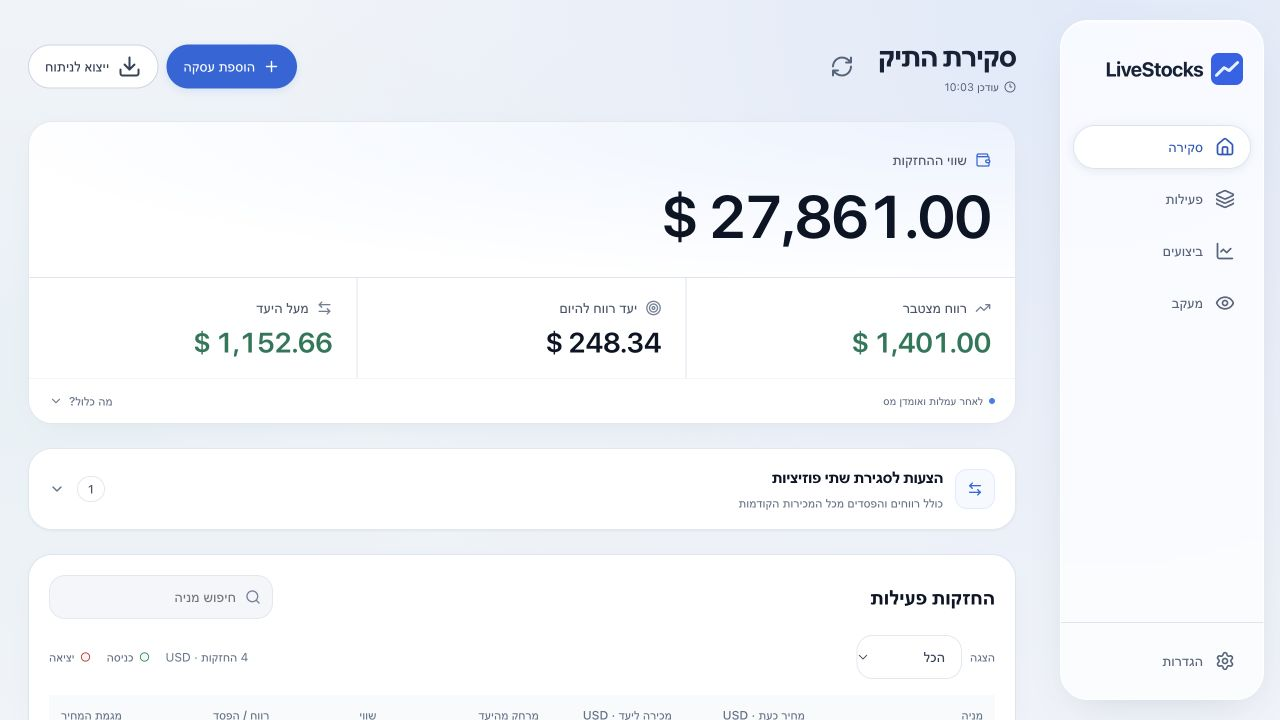
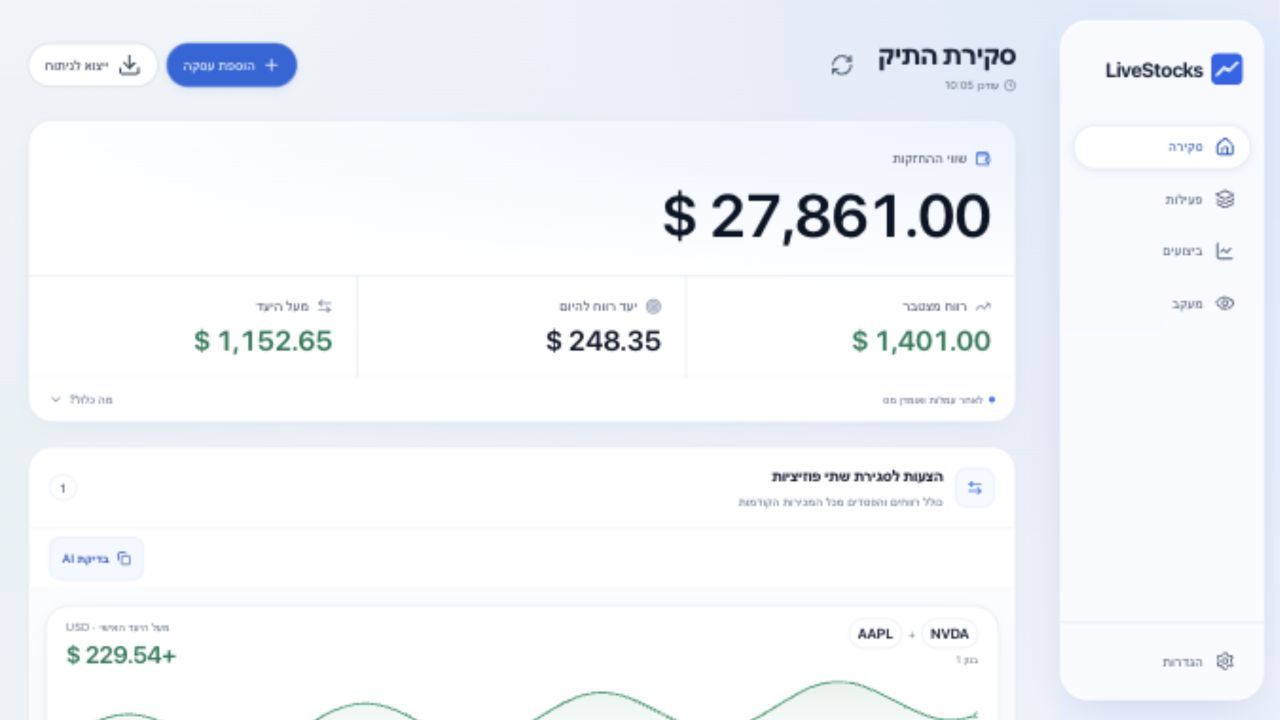
fix(overview): keep exit ideas permanently visible

diff --git a/__tests__/close-pair-proposals-ui.test.tsx b/__tests__/close-pair-proposals-ui.test.tsx
@@ -16,24 +16,19 @@ const metric = (symbol: string, price: number) => calculatePositionMetrics({
 
 describe('close pair disclosure', () => {
   beforeEach(() => { context.settings.annualGrowthRate = 0; });
-  it('keeps the entire ideas area collapsed with an accessible count until requested', async () => {
+  it('always shows the ideas and count without a collapsible section', () => {
     context.locale = 'en';
-    const user = userEvent.setup();
-    const { container } = render(<ClosePairProposals metrics={[metric('WIN', 130), metric('LOSS', 80)]} />);
-    const disclosure = container.querySelector('details.glass-disclosure')!;
-    expect(disclosure).not.toHaveAttribute('open');
+    render(<ClosePairProposals metrics={[metric('WIN', 130), metric('LOSS', 80)]} />);
+    expect(screen.getByRole('heading', { name: 'Two-position exit ideas' }).closest('details')).toBeNull();
     expect(screen.getByLabelText('Idea count')).toHaveTextContent('1');
-    expect(screen.getByRole('button', {name: 'Copy prompt for AI review'})).not.toBeVisible();
-    await user.click(screen.getByText('Two-position exit ideas'));
-    expect(disclosure).toHaveAttribute('open');
     expect(screen.getByRole('button', {name: 'Copy prompt for AI review'})).toBeVisible();
+    expect(screen.getByTestId('close-pair-preview')).toBeVisible();
   });
 
-  it('starts collapsed, opens with the keyboard and hides links when collapsed', async () => {
+  it('keeps individual pair details collapsed, opens with the keyboard and hides links when collapsed', async () => {
     context.locale = 'en';
     const user = userEvent.setup();
     render(<ClosePairProposals metrics={[metric('WIN', 130), metric('LOSS', 80)]} />);
-    await user.click(screen.getByText(context.locale === 'he' ? 'הצעות לסגירת שתי פוזיציות' : 'Two-position exit ideas'));
     const toggle = screen.getByRole('button', { name: /Expand WIN \+ LOSS details/ });
     expect(toggle).toHaveAttribute('aria-expanded', 'false');
     expect(screen.queryByRole('link')).not.toBeInTheDocument();
@@ -80,7 +75,6 @@ describe('close pair disclosure', () => {
     ] };
     const win = metric('WIN', 140);
     render(<ClosePairProposals metrics={[win, calculatePositionMetrics({ ...loss, lots: loss.lots!.slice(-1) }, 90, 3.5)]} positions={[win.position, loss]} />);
-    await user.click(screen.getByText(context.locale === 'he' ? 'הצעות לסגירת שתי פוזיציות' : 'Two-position exit ideas'));
     await user.click(screen.getByRole('button', { name: 'Expand WIN + LOSS details' }));
     expect(screen.getAllByText(/Previously realized/)).toHaveLength(2);
     const lossCard = screen.getByRole('link', { name: /^LOSS/ }).closest('li')!;
@@ -105,7 +99,6 @@ describe('close pair disclosure', () => {
     context.locale = 'he';
     const user = userEvent.setup();
     render(<ClosePairProposals metrics={[metric('WIN', 130), metric('LOSS', 80)]} />);
-    await user.click(screen.getByText(context.locale === 'he' ? 'הצעות לסגירת שתי פוזיציות' : 'Two-position exit ideas'));
     await user.click(screen.getByRole('button', { name: /פתיחת פרטי WIN \+ LOSS/ }));
     expect(screen.getByText(/הדמיה בדולרים/)).toBeInTheDocument();
     expect(screen.getAllByText(/כל 2 המניות/)).toHaveLength(2);
@@ -115,7 +108,6 @@ describe('close pair disclosure', () => {
     const user = userEvent.setup();
     const write = vi.spyOn(navigator.clipboard, 'writeText').mockResolvedValue();
     render(<ClosePairProposals metrics={[metric('WIN', 130), metric('LOSS', 80), metric('OTHER', 95)]} />);
-    await user.click(screen.getByText(context.locale === 'he' ? 'הצעות לסגירת שתי פוזיציות' : 'Two-position exit ideas'));
     expect(screen.getAllByRole('article')).toHaveLength(1);
     const toggle = screen.getByRole('button', { name: /Expand WIN \+ LOSS details/ });
     await user.click(screen.getByRole('button', { name: 'Copy prompt for AI review' }));
@@ -137,7 +129,6 @@ describe('close pair disclosure', () => {
     const user = userEvent.setup();
     const write = vi.spyOn(navigator.clipboard, 'writeText').mockRejectedValueOnce(new Error('Blocked')).mockResolvedValue();
     render(<ClosePairProposals metrics={[metric('WIN', 130), metric('LOSS', 80)]} />);
-    await user.click(screen.getByText(context.locale === 'he' ? 'הצעות לסגירת שתי פוזיציות' : 'Two-position exit ideas'));
     const copy = screen.getByRole('button', { name: 'Copy prompt for AI review' });
     await user.click(copy);
     expect(toast.error).toHaveBeenCalledWith('Copy failed. Please try again.');
@@ -150,7 +141,6 @@ describe('close pair disclosure', () => {
     context.locale = 'en';
     const user = userEvent.setup();
     render(<ClosePairProposals metrics={[metric('W1', 140), metric('W2', 130), metric('L1', 80), metric('L2', 90)]} />);
-    await user.click(screen.getByText(context.locale === 'he' ? 'הצעות לסגירת שתי פוזיציות' : 'Two-position exit ideas'));
     const first = screen.getByRole('button', { name: 'Expand W1 + L1 details' });
     const second = screen.getByRole('button', { name: 'Expand W2 + L2 details' });
     await user.click(first);
@@ -174,7 +164,6 @@ describe('close pair disclosure', () => {
     context.locale = 'en';
     const positions = [metric('WIN', 130), metric('LOSS', 80)];
     const { rerender } = render(<ClosePairProposals metrics={positions} />);
-    await user.click(screen.getByText(context.locale === 'he' ? 'הצעות לסגירת שתי פוזיציות' : 'Two-position exit ideas'));
     expect(screen.getByText('Above personal target · USD')).toBeInTheDocument();
     expect(screen.getByText('Cumulative profit').closest('[aria-hidden]')).toHaveAttribute('aria-hidden', 'true');
     await user.click(screen.getByRole('button', {name: 'Expand WIN + LOSS details'}));

diff --git a/components/portfolio/close-pair-proposals.tsx b/components/portfolio/close-pair-proposals.tsx
@@ -40,13 +40,11 @@ export function ClosePairProposals({ metrics, positions, sparklineData = {} }: {
   const anyExpanded = proposals.some(proposal => expandedPairs.has(pairKey(proposal)));
 
   return <section className="overflow-hidden rounded-3xl border border-slate-200 bg-white shadow-sm" aria-label={he ? 'הצעות לסגירת שתי פוזיציות' : 'Two-position exit ideas'}>
-    <details className="glass-disclosure group/ideas">
-      <summary className="flex min-h-16 cursor-pointer list-none items-center gap-3 px-4 py-4 sm:px-5">
+    <div className="flex min-h-[64px] items-center gap-3 px-4 py-4 sm:px-5">
         <span aria-hidden className="holding-monogram flex h-10 w-10 shrink-0 items-center justify-center rounded-xl border border-blue-100 bg-blue-50/60 text-blue-600"><ArrowLeftRight className="h-4 w-4" /></span>
         <span className="min-w-0 flex-1"><h2 className="text-sm font-semibold tracking-tight text-slate-950 sm:text-base">{he ? 'הצעות לסגירת שתי פוזיציות' : 'Two-position exit ideas'}</h2><span className="mt-1 block text-xs leading-5 text-slate-500">{he ? 'כולל רווחים והפסדים מכל המכירות הקודמות' : 'Including gains and losses from all previous sales'}</span></span>
         <span className="shrink-0 rounded-full border border-slate-200 px-2.5 py-1 text-xs font-medium text-slate-600" aria-label={he ? 'מספר הצעות' : 'Idea count'}>{proposals.length}</span>
-        <ChevronDown aria-hidden className="h-4 w-4 shrink-0 text-slate-500 transition-transform duration-200 group-open/ideas:rotate-180 motion-reduce:transition-none" />
-      </summary>
+    </div>
       <div className="flex items-center justify-end border-t border-slate-100 px-4 py-2 sm:px-5">
       <button type="button" onClick={copyForAi} disabled={copying} aria-label={he ? 'העתקת פרומפט לבדיקה ב־AI' : 'Copy prompt for AI review'} title={he ? 'העתקת פרומפט למחקר והכרעה לגבי כל זוג' : 'Copy a prompt for research and a verdict on each pair'} className="inline-flex min-h-[44px] items-center gap-2 shrink-0 rounded-xl border border-blue-100 bg-blue-50/70 px-3 text-xs font-semibold text-blue-700 transition-[background-color,border-color,box-shadow,transform] duration-200 hover:border-blue-200 hover:bg-blue-100/70 hover:shadow-sm active:translate-y-0 focus-visible:outline-none focus-visible:ring-2 focus-visible:ring-blue-500 focus-visible:ring-offset-2 disabled:opacity-50 motion-reduce:transform-none motion-reduce:transition-none"><Copy aria-hidden className="h-3.5 w-3.5" />{copying ? (he ? 'מעתיק…' : 'Copying…') : (he ? 'בדיקת AI' : 'AI review')}</button>
       </div>
@@ -88,6 +86,5 @@ export function ClosePairProposals({ metrics, positions, sparklineData = {} }: {
 
     </div>
     <div className={anyExpanded ? 'holding-card-open' : ''}><div aria-hidden={!anyExpanded} ref={element => { if (anyExpanded) element?.removeAttribute('inert'); else element?.setAttribute('inert', ''); }} className="holding-reveal"><div className="min-h-0 overflow-hidden"><details className="px-4 pb-3 text-[11px] leading-relaxed text-slate-500 sm:px-5"><summary className="flex min-h-[44px] cursor-pointer items-center text-blue-700">{he ? 'מה כלול בחישוב?' : 'What’s included?'}</summary><p>{he ? 'הדמיה בדולרים לפי המחירים הזמינים ועלות FIFO, כולל עמלות קנייה ומכירה שהוזנו ותוצאות כל המכירות הקודמות של כל סימול בכל החשבונות. יעד התשואה השנתי האישי נצבר לכל מנת קנייה עד מכירתה או עד היום אם היא עדיין פתוחה, ואינו תחזית שוק. מוצגים רק זוגות שהרווח בסגירתם חיובי וגם מכסה את יעד הרווח של שתיהן. מס, עמלות מכירה ושינויי מחיר אינם כלולים ועשויים לשנות את התוצאה. מיון לפי החוסר המכוסה מול היעד ואז היתרה מעל היעד; כל מניה מופיעה בזוג אחד בלבד. הפרומפט כולל את כמויות וסכומי ההצעות המוצגות, להדבקה ידנית ב־AI. ההצעות אינן מבצעות מכירה.' : 'USD simulation using available prices and FIFO cost, including recorded buy and sell fees and every prior sale result for each symbol across accounts. The personal annual return target accrues for each purchase until it is sold, or until today while open; it is not a market forecast. Pairs must have positive exit profit and also cover both personal profit targets. Tax, exit fees and price changes are excluded and may change the result. Ranked by covered target shortfall, then surplus above target; each stock appears in one pair only. The prompt includes the displayed quantities and amounts for manually pasting into your AI. These ideas do not execute trades.'}</p></details></div></div></div>
-    </details>
   </section>;
 }

diff --git a/README.md b/README.md
@@ -8,7 +8,7 @@
 
 ## עיצוב Liquid Glass
 
-הממשק משתמש ברקע פנינה בהיר או גרפיט כהה, במשטחי נתונים יציבים ובזכוכית חלבית לניווט ולתפריטים. במחשב יש סרגל צד צף וטבלאות רחבות; בנייד יש סרגל תחתון בצורת קפסולה, כרטיסי החזקות נפתחים וטפסים כגיליונות תחתונים עם גלילה פנימית. שווי התיק הוא המדד הראשי, ואזור ההצעות לסגירת זוגות מתחיל מקופל עם מספר ההצעות בכותרת.
+הממשק משתמש ברקע פנינה בהיר או גרפיט כהה, במשטחי נתונים יציבים ובזכוכית חלבית לניווט ולתפריטים. במחשב יש סרגל צד צף וטבלאות רחבות; בנייד יש סרגל תחתון בצורת קפסולה, כרטיסי החזקות נפתחים וטפסים כגיליונות תחתונים עם גלילה פנימית. שווי התיק הוא המדד הראשי, ואזור ההצעות לסגירת זוגות מוצג תמיד מעל ההחזקות הפעילות עם מספר ההצעות בכותרת. פירוט הסגירה של כל זוג נפתח בנפרד.
 
 בהגדרות → מראה אפשר לבחור **לפי המכשיר / בהיר / כהה** ולהפעיל **הפחתת שקיפות**. ברירת המחדל עוקבת אחרי המכשיר. ההעדפות נשמרות מיד בדפדפן המקומי (`livestocks-theme`, `livestocks-reduce-transparency`), בלי שינוי בהגדרות החשבון, ב־API או בחישובים. העדפת מערכת להפחתת שקיפות גוברת על הבחירה המקומית כאשר הדפדפן תומך בה. תנועה מופחתת מכובדת, ולדפדפנים ללא טשטוש יש משטח אטום חלופי.
 
